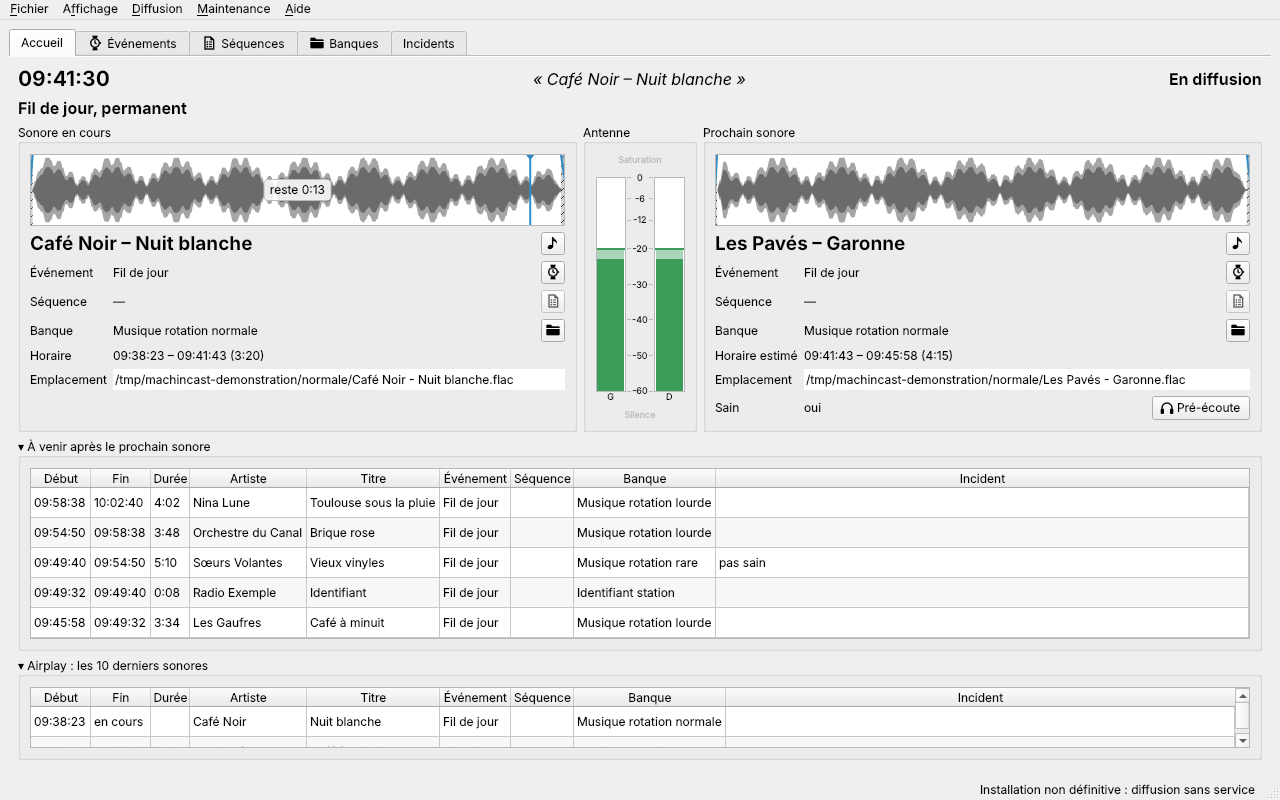
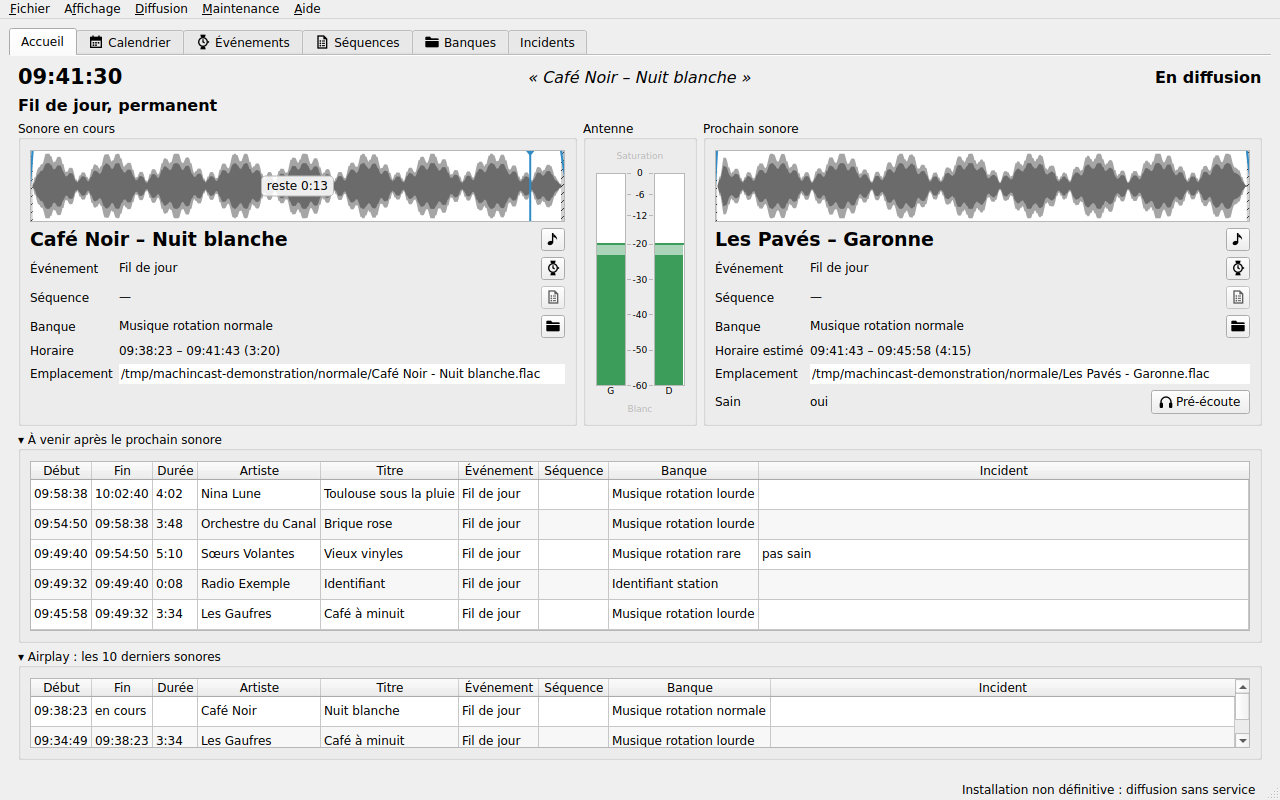
Version 0.9.0, première version publiée (#208, #41)
- pyproject.toml : 0.9.0.
- RELEASE.md : les fonctionnalités de la première version, classées par
  sujet, avec leurs tickets, et les remerciements ; ni design, ni code, ni
  documentation, comme demandé pour la première release.
- Les nouveautés de l'interface, pour l'équipe de l'antenne, montrées au
  premier lancement et dans Aide → Version.
- README.md : la version, sa date, ses notes et son archive.
- Le guide de l'antenne relu : ce qui manque encore est à jour ; ses
  captures refaites par Machin dev-captures.
- L'archive .tar.gz d'une release : INSTALL.md dit comment l'installer, et
  un scénario vérifie qu'elle contient de quoi installer MachinCast, sous
  machincast-<version>/. Les tableaux de ce qui manque ne la citent plus,
  ni le raccourci de bureau, livré.

Fixes #208
Fixes #41

Claude-Session: https://claude.ai/code/session_01KaPegkCQoT3k3oMgjXGsiv

diff --git a/tests/test_documentation.py b/tests/test_documentation.py
@@ -4,10 +4,11 @@ import re
 import shlex
 import subprocess
 import sys
+import tarfile
 import tomllib
 from pathlib import Path
 
-from pytest_bdd import scenarios, then
+from pytest_bdd import parsers, scenarios, then, when
 
 from machincast.installation import ACTIONS
 from machincast.interface import version
@@ -225,3 +226,49 @@ def version_du_projet() -> None:
 		return
 	projet = tomllib.loads(texte(RACINE / "pyproject.toml"))["project"]["version"]
 	assert numero(projet) >= numero(sections[0].version), projet
+
+
+# ─── Archive d'une release (https://github.com/dascritch/machincast/issues/41) ───
+
+
+@when("je fais l'archive de la version de pyproject.toml", target_fixture="archive")
+def faire_l_archive(tmp_path: Path) -> dict[str, tarfile.TarInfo]:
+	numero_du_projet = tomllib.loads(texte(RACINE / "pyproject.toml"))["project"]["version"]
+	chemin = tmp_path / f"machincast-{numero_du_projet}.tar.gz"
+	subprocess.run(
+		[
+			"git",
+			"-C",
+			str(RACINE),
+			"archive",
+			"--format=tar.gz",
+			f"--prefix=machincast-{numero_du_projet}/",
+			f"--output={chemin}",
+			"HEAD",
+		],
+		check=True,
+	)
+	with tarfile.open(chemin) as archive:
+		return {membre.name: membre for membre in archive.getmembers()}
+
+
+def projet() -> str:
+	return str(tomllib.loads(texte(RACINE / "pyproject.toml"))["project"]["version"])
+
+
+@then(parsers.parse("l'archive a pour répertoire « {repertoire} »"))
+def repertoire_de_l_archive(archive: dict[str, tarfile.TarInfo], repertoire: str) -> None:
+	attendu = repertoire.replace("<version>", projet())
+	assert all((nom == attendu) or (nom.startswith(f"{attendu}/")) for nom in archive), sorted(archive)[:5]
+
+
+@then(parsers.parse("l'archive contient « {nom} », exécutable"))
+def executable(archive: dict[str, tarfile.TarInfo], nom: str) -> None:
+	membre = archive[f"machincast-{projet()}/{nom}"]
+	assert membre.mode & 0o111, oct(membre.mode)
+
+
+@then(parsers.re(r"l'archive contient (?P<noms>«.+»)$"))
+def contient(archive: dict[str, tarfile.TarInfo], noms: str) -> None:
+	manquants = [nom for nom in re.findall(r"« ([^»]+) »", noms) if f"machincast-{projet()}/{nom}" not in archive]
+	assert manquants == [], manquants

diff --git a/RELEASE.md b/RELEASE.md
@@ -1,0 +1,76 @@
+# Versions de MachinCast
+
+Les versions publiées, la plus récente d'abord. Procédure : [doc/developpement/release.md](doc/developpement/release.md).
+
+## 0.9.0 — 2026-10-28
+
+Première version publiée, avant la 1.0 : tout ce que fait MachinCast, fonctionnalité par fonctionnalité.
+
+### Diffusion à l'antenne : Machin lecture
+
+- L'événement actif, selon les priorités et les horaires de la grille ([#12](https://github.com/dascritch/machincast/issues/12)), et le choix d'un sonore dans une banque, séquentielle ou aléatoire ([#13](https://github.com/dascritch/machincast/issues/13)).
+- Le déroulé de la liste de lecture d'un événement, et les transitions d'un événement à l'autre ([#14](https://github.com/dascritch/machincast/issues/14)), par la boucle de diffusion ([#88](https://github.com/dascritch/machincast/issues/88)).
+- Le moteur audio GStreamer, avec crossfades ([#15](https://github.com/dascritch/machincast/issues/15)), et la position des fondus par rapport aux silences d'un sonore ([#234](https://github.com/dascritch/machincast/issues/234)).
+- Les streams, leur chute et leur reprise, et leur événement de secours ([#16](https://github.com/dascritch/machincast/issues/16)).
+- L'airplay et le log ([#17](https://github.com/dascritch/machincast/issues/17)), avec les débuts et fins d'événements et de séquences ([#153](https://github.com/dascritch/machincast/issues/153)).
+- L'expiration automatique des sonores ([#18](https://github.com/dascritch/machincast/issues/18)).
+- Le masquage des métadonnées, et les sorties : airplay en CSV, playlist `.pls` et page HTML publique ([#19](https://github.com/dascritch/machincast/issues/19)).
+- La socket d'état, que suit l'interface ([#20](https://github.com/dascritch/machincast/issues/20)).
+- La simulation d'une période de diffusion ([#21](https://github.com/dascritch/machincast/issues/21)).
+- La banque « ne pas répéter » ([#63](https://github.com/dascritch/machincast/issues/63)), et les séquences, suites de sonores et de banques réutilisables ([#99](https://github.com/dascritch/machincast/issues/99)).
+- La playlist immédiate : le prochain sonore et ceux qui suivent, réservés à l'avance ([#228](https://github.com/dascritch/machincast/issues/228)).
+- Un sonore joué sans ses silences au début et à la fin ([#146](https://github.com/dascritch/machincast/issues/146)).
+- L'analyse au dernier moment d'un sonore jamais vérifié en entier ([#181](https://github.com/dascritch/machincast/issues/181)).
+- Le blanc dans un sonore, noté, et qui peut faire passer au secours ([#122](https://github.com/dascritch/machincast/issues/122)).
+- Le nom de MachinCast dans le réglage du son du bureau, sous PipeWire et PulseAudio ([#296](https://github.com/dascritch/machincast/issues/296)).
+
+### Programmation et antenne, depuis l'interface
+
+- L'écran d'accueil : sonore en cours, prochain sonore, airplay ([#23](https://github.com/dascritch/machincast/issues/23), [#144](https://github.com/dascritch/machincast/issues/144)), avec les frises du sonore en cours et du suivant ([#230](https://github.com/dascritch/machincast/issues/230)), les sonores à venir, et un onglet Airplay réglable et exportable ([#244](https://github.com/dascritch/machincast/issues/244)).
+- Le VU-mètre de l'antenne, avec ses voyants « Saturation » et « Blanc » ([#24](https://github.com/dascritch/machincast/issues/24), [#191](https://github.com/dascritch/machincast/issues/191)).
+- Le pilotage du service de diffusion ([#25](https://github.com/dascritch/machincast/issues/25)).
+- L'interruption de l'antenne : sauter le sonore, la séquence ou l'événement ([#104](https://github.com/dascritch/machincast/issues/104)), et avancer l'événement suivant ([#257](https://github.com/dascritch/machincast/issues/257)).
+- Le calendrier de la grille ([#36](https://github.com/dascritch/machincast/issues/36)), à la semaine ([#118](https://github.com/dascritch/machincast/issues/118)), aux couleurs des types d'événements ([#293](https://github.com/dascritch/machincast/issues/293)), en onglet permanent ([#307](https://github.com/dascritch/machincast/issues/307)).
+- Sauter une session d'un événement récurrent, et la rétablir ([#273](https://github.com/dascritch/machincast/issues/273), [#295](https://github.com/dascritch/machincast/issues/295)).
+- Une modification de la grille vaut aussitôt à l'antenne ([#266](https://github.com/dascritch/machincast/issues/266)).
+- La garantie d'un fil musical ([#39](https://github.com/dascritch/machincast/issues/39)), et les suggestions au lancement ([#119](https://github.com/dascritch/machincast/issues/119), [#231](https://github.com/dascritch/machincast/issues/231)).
+- L'écran des incidents ([#35](https://github.com/dascritch/machincast/issues/35)) et l'écran de simulation ([#37](https://github.com/dascritch/machincast/issues/37)).
+
+### Sonores, banques, séquences, événements et feeds
+
+- Les listes avec recherche ([#26](https://github.com/dascritch/machincast/issues/26)), la sélection multiple ([#114](https://github.com/dascritch/machincast/issues/114)), le tri des durées, des dates et des priorités ([#272](https://github.com/dascritch/machincast/issues/272), [#302](https://github.com/dascritch/machincast/issues/302)), et la recherche globale ([#27](https://github.com/dascritch/machincast/issues/27), [#105](https://github.com/dascritch/machincast/issues/105)).
+- Les fiches d'un sonore ([#28](https://github.com/dascritch/machincast/issues/28), [#125](https://github.com/dascritch/machincast/issues/125)), d'une banque ([#31](https://github.com/dascritch/machincast/issues/31), [#143](https://github.com/dascritch/machincast/issues/143)), d'un événement ([#32](https://github.com/dascritch/machincast/issues/32), [#140](https://github.com/dascritch/machincast/issues/140)) et d'une séquence ([#112](https://github.com/dascritch/machincast/issues/112), [#138](https://github.com/dascritch/machincast/issues/138)), avec leurs erreurs de saisie mises en avant ([#270](https://github.com/dascritch/machincast/issues/270)).
+- Les feeds, adresses de streams réutilisables ([#34](https://github.com/dascritch/machincast/issues/34), [#252](https://github.com/dascritch/machincast/issues/252)).
+- L'ajout de sonores ([#30](https://github.com/dascritch/machincast/issues/30)), et la duplication d'un événement, d'une séquence ou d'une banque ([#130](https://github.com/dascritch/machincast/issues/130)).
+- La suppression avec ses références ([#33](https://github.com/dascritch/machincast/issues/33)), différée et restaurable ([#267](https://github.com/dascritch/machincast/issues/267)) ; un fichier sonore n'est jamais supprimé ([#96](https://github.com/dascritch/machincast/issues/96)).
+- Les durées minimale et maximale des sonores d'une banque ([#147](https://github.com/dascritch/machincast/issues/147), [#210](https://github.com/dascritch/machincast/issues/210)).
+- La pré-écoute sur une sortie distincte ([#29](https://github.com/dascritch/machincast/issues/29), [#116](https://github.com/dascritch/machincast/issues/116)), avec la frise du fichier ([#224](https://github.com/dascritch/machincast/issues/224)), depuis toute ligne de sonore ([#226](https://github.com/dascritch/machincast/issues/226)), et la pré-écoute de l'antenne ([#245](https://github.com/dascritch/machincast/issues/245), [#256](https://github.com/dascritch/machincast/issues/256)).
+- Les textes saisis nettoyés à l'enregistrement ([#108](https://github.com/dascritch/machincast/issues/108)).
+
+### L'interface au quotidien
+
+- Le menu général ([#117](https://github.com/dascritch/machincast/issues/117)) et les préférences : crossfades par défaut, périphériques, seuils ([#145](https://github.com/dascritch/machincast/issues/145)).
+- Les onglets ouverts à la demande ([#180](https://github.com/dascritch/machincast/issues/180)), leurs raccourcis clavier ([#192](https://github.com/dascritch/machincast/issues/192)), et leur rafraîchissement ([#148](https://github.com/dascritch/machincast/issues/148)).
+- Les colonnes des tableaux, ajustées, réordonnables, masquables et retenues ([#207](https://github.com/dascritch/machincast/issues/207)).
+- Les emoji qui soulignent l'intention des actions ([#294](https://github.com/dascritch/machincast/issues/294)).
+- L'icône de l'application, au choix, et le raccourci de bureau ([#62](https://github.com/dascritch/machincast/issues/62), [#111](https://github.com/dascritch/machincast/issues/111), [#213](https://github.com/dascritch/machincast/issues/213)).
+
+### Indexation des sonores
+
+- La vérification d'un fichier par décodage complet, et sa durée ([#7](https://github.com/dascritch/machincast/issues/7)) ; la lecture de ses tags ([#8](https://github.com/dascritch/machincast/issues/8)) ; son type réel ([#121](https://github.com/dascritch/machincast/issues/121)).
+- L'indexation récursive des répertoires de banques ([#9](https://github.com/dascritch/machincast/issues/9)), qui repère les fichiers supprimés, déplacés ou modifiés ([#10](https://github.com/dascritch/machincast/issues/10)), et ajoute ou retire un sonore d'une banque selon sa durée ([#195](https://github.com/dascritch/machincast/issues/195)).
+- Le document d'audit des anomalies, en CSV et HTML ([#11](https://github.com/dascritch/machincast/issues/11)), et le journal de l'indexation ([#120](https://github.com/dascritch/machincast/issues/120)).
+- Les états d'un sonore ([#66](https://github.com/dascritch/machincast/issues/66)), l'indexation rapide et l'audit complet ([#69](https://github.com/dascritch/machincast/issues/69)), optimisé ([#206](https://github.com/dascritch/machincast/issues/206)).
+- L'indexation lancée depuis l'interface ([#38](https://github.com/dascritch/machincast/issues/38)).
+
+### Installation et administration
+
+- Le script d'installation `install.sh` ([#40](https://github.com/dascritch/machincast/issues/40)), qui interrompt les programmes en cours ([#254](https://github.com/dascritch/machincast/issues/254)), et le service de diffusion systemd ([#22](https://github.com/dascritch/machincast/issues/22)).
+- La commande `Machin` : appel des programmes, aide et autocomplétion ([#6](https://github.com/dascritch/machincast/issues/6)), et la configuration `machincast.toml` ([#2](https://github.com/dascritch/machincast/issues/2), [#76](https://github.com/dascritch/machincast/issues/76)).
+- La base PostgreSQL, et un rôle par programme ([#3](https://github.com/dascritch/machincast/issues/3), [#4](https://github.com/dascritch/machincast/issues/4)).
+- La maintenance de la base : sauvegarde, schéma, optimisation ([#127](https://github.com/dascritch/machincast/issues/127)), et le désherbage de ce qui dépasse la durée de péremption ([#268](https://github.com/dascritch/machincast/issues/268), [#269](https://github.com/dascritch/machincast/issues/269)).
+- Les informations de chaque version publiée : nouveautés au lancement, version, guide de la release ([#208](https://github.com/dascritch/machincast/issues/208)), et son archive `.tar.gz` ([#41](https://github.com/dascritch/machincast/issues/41)).
+
+### Merci
+
+À Xavier Mouton-Dubosc ([dascritch](https://github.com/dascritch)), animateur de [Radio &lt;FMR&gt;](https://radio-fmr.net), qui a demandé chacune de ces fonctionnalités, signalé chaque problème et relu chaque changement.

diff --git a/INSTALL.md b/INSTALL.md
@@ -4,7 +4,7 @@ Ce document décrit l'installation de MachinCast sur un poste de diffusion, sa v
 
 Le script `install.sh` fait tout le travail. La section [Installer à la main](#installer-à-la-main) détaille chacune de ses étapes, pour qui veut les faire soi-même ou comprendre ce qu'il fait.
 
-> **État du projet** : MachinCast est en cours de développement. L'indexation vérifie les sonores, et `Machin lecture` diffuse la grille, depuis un terminal ou comme service, et l'interface graphique (`Machin interface`) n'a pas encore tous ses écrans. La section [Ce qui n'existe pas encore](#ce-qui-nexiste-pas-encore) donne le ticket de chaque manque.
+> **État du projet** : MachinCast 0.9.0 est sa première version publiée, avant la 1.0 ([RELEASE.md](RELEASE.md)). L'indexation vérifie les sonores, `Machin lecture` diffuse la grille, depuis un terminal ou comme service, et l'interface graphique (`Machin interface`) la programme et la suit. Ce qui manque encore est dans les [tickets ouverts](https://github.com/dascritch/machincast/issues).
 
 ## Sommaire
 
@@ -21,7 +21,6 @@ Le script `install.sh` fait tout le travail. La section [Installer à la main](#
 - [Installer à la main](#installer-à-la-main)
 - [Désinstaller](#désinstaller)
 - [En cas de problème](#en-cas-de-problème)
-- [Ce qui n'existe pas encore](#ce-qui-nexiste-pas-encore)
 
 ## En bref
 
@@ -74,7 +73,15 @@ git clone https://github.com/dascritch/machincast.git ~/machincast
 cd ~/machincast
 ```
 
-Les archives `.tar.gz` publiées en releases sur GitHub ne sont pas encore disponibles ([#41](https://github.com/dascritch/machincast/issues/41)). Une fois publiées, elles s'utiliseront de la même façon : décompresser l'archive dans le répertoire choisi, puis lancer `./install.sh` depuis ce répertoire.
+Chaque version publiée a aussi son archive, `machincast-<version>.tar.gz`, dans les [releases du dépôt](https://github.com/dascritch/machincast/releases) ([#41](https://github.com/dascritch/machincast/issues/41)). Elle s'utilise de la même façon : la décompresser dans le répertoire choisi, puis lancer `./install.sh` depuis ce répertoire. Ses notes sont dans [RELEASE.md](RELEASE.md).
+
+```bash
+tar -xzf machincast-0.9.0.tar.gz -C ~
+mv ~/machincast-0.9.0 ~/machincast
+cd ~/machincast
+```
+
+Hors d'un dépôt git, **Aide → Version** donne la version et sa date de publication ; une mise à jour se fait alors en décompressant l'archive suivante à la place, `machincast.toml` gardé.
 
 ## Installer avec install.sh
 
@@ -444,9 +451,3 @@ Les noms de bases sont ceux du modèle : reprendre ceux de `base.production` et 
 | `Machin logs` réclame le groupe `adm` ou `systemd-journal`, ou n'affiche que des messages de son propre compte | Le groupe n'est pas encore pris en compte par la session. Si `id -nG "$(id -un)"` cite `systemd-journal` mais pas `id -nG`, l'ajout est fait : redémarrer le poste. Sinon, relancer `install.sh`. |
 
 Les messages d'information s'affichent sur la sortie standard ; les anomalies et les erreurs sur la sortie d'erreur. Chaque ligne commence par son heure, en ISO 8601, avec le décalage horaire du poste, par exemple `2026-10-23T07:55:19+02:00 sortie audio indisponible : …` ([#253](https://github.com/dascritch/machincast/issues/253)) ; le tableau ci-dessus la laisse de côté. Celles de `install.sh` commencent par `install.sh :`.
-
-## Ce qui n'existe pas encore
-
-| Manque | Ticket |
-| --- | --- |
-| Archives `.tar.gz` publiées en releases | [#41](https://github.com/dascritch/machincast/issues/41) |

diff --git a/src/machincast/interface/nouveautes.md b/src/machincast/interface/nouveautes.md
@@ -5,3 +5,14 @@ version, et dans Aide → Version. Une section par version, la plus récente d'a
 la même que dans RELEASE.md. Ce qui précède la première section n'est pas montré. Procédure :
 doc/developpement/release.md.
 -->
+
+## 0.9.0 — 2026-10-28
+
+Bienvenue dans la première version publiée de MachinCast !
+
+- **L'antenne tourne seule** : fil musical, émissions, spéciaux et streams s'enchaînent selon la grille, avec leurs crossfades. Un stream qui tombe laisse la place à son secours, puis reprend l'antenne.
+- **L'accueil suit l'antenne** : sonore en cours et prochain, avec leur frise, sonores à venir, airplay, et le VU-mètre de la sortie. Un clic droit saute un sonore ou avance l'événement suivant.
+- **La grille se programme ici** : événements, séquences, banques, sonores et feeds, chacun avec sa fiche, et le calendrier de la semaine, où une session se saute pour les vacances.
+- **Pré-écouter** un sonore, ou l'antenne, au casque, sans rien changer à la diffusion.
+- **Les incidents** de la diffusion se lisent dans leur onglet ; un sonore qui ne donne plus de son peut être remplacé aussitôt (Préférences, page Audio).
+- **Aide → Documentation** ouvre le guide de l'antenne de cette version, et **Aide → Version** redonne ces nouveautés.

diff --git a/doc/administration/commandes.md b/doc/administration/commandes.md
@@ -21,7 +21,7 @@ Machin --help                         # aide complète
 
 | Commande | Rôle |
 | --- | --- |
-| `Machin lecture` | Diffusion de l'antenne, normalement lancée comme service ([à venir](README.md#ce-qui-nexiste-pas-encore)). |
+| `Machin lecture` | Diffusion de l'antenne, normalement lancée comme service ([Service de diffusion](../../INSTALL.md#service-de-diffusion)). |
 | `Machin indexation` | Enregistrement des fichiers déposés dans les répertoires des banques, vérification des fichiers sonores et mise à jour de la base. |
 | `Machin interface` | Interface graphique de supervision et de programmation. Pour l'instant, son [écran par défaut](#interface-graphique--machin-interface), les [listes](../utilisateur/listes.md#listes), les fiches d'un [événement](../utilisateur/grille.md#fiche-dun-événement), d'une [séquence](../utilisateur/grille.md#fiche-dune-séquence), d'une [banque](../utilisateur/sonores.md#fiche-dune-banque) et d'un [sonore](../utilisateur/sonores.md#fiche-dun-sonore). |
 | `Machin maintenance-db` | [Maintenance de la base de production](#maintenance-de-la-base--machin-maintenance-db) : sauvegarde, vérification du schéma et des rôles, optimisation. |

diff --git a/doc/utilisateur/README.md b/doc/utilisateur/README.md
@@ -37,11 +37,11 @@ Supprimer ou déplacer un fichier reste une décision humaine, prise hors de Mac
 
 ## Ce qui n'existe pas encore
 
-MachinCast est en cours de développement. Ce qui manque encore pour l'antenne :
+Ce guide est celui de MachinCast 0.9.0, sa première version publiée, avant la 1.0 ; **Aide → Version** en donne les nouveautés. Ce qui manque encore pour l'antenne :
 
 | Manque | Ticket |
 | --- | --- |
 | Prolonger un stream dont le direct déborde | [#47](https://github.com/dascritch/machincast/issues/47) |
-| Raccourci de bureau et icône de l'interface | [#62](https://github.com/dascritch/machincast/issues/62) |
+| Écran d'analyse de la sortie audio, « Moniteur de la sortie… » du menu Maintenance | [#85](https://github.com/dascritch/machincast/issues/85) |
 
 Une idée, un problème ? **Aide → Signaler un problème…** ouvre les tickets de MachinCast.

diff --git a/README.md b/README.md
@@ -1,5 +1,7 @@
 # MachinCast
 
+**Version 0.9.0**, publiée le 2026-10-28, première version publiée, avant la 1.0 : [ce qu'elle apporte](RELEASE.md), et [son archive](https://github.com/dascritch/machincast/releases/tag/v0.9.0).
+
 Système automatisé de diffusion sonore pour continuité d'antenne radio, sous Linux : il fournit un fil antenne en dehors des émissions en direct, à partir de banques de sonores, de *feeds* externes et d'événements horaires. Le service a des tolérance de sources, des scénarios de secours et sépare les services métiers.
 
 - **Équipe de l'antenne** : le [guide de l'antenne](doc/utilisateur/README.md), pour programmer et suivre l'antenne depuis l'interface graphique

diff --git a/doc/administration/README.md b/doc/administration/README.md
@@ -16,6 +16,4 @@ Ce guide s'adresse à l'administrateur du poste de diffusion : il décrit les pr
 
 | Manque | Ticket |
 | --- | --- |
-| Archives `.tar.gz` publiées en releases | [#41](https://github.com/dascritch/machincast/issues/41) |
-| Raccourci de bureau et icône de l'interface | [#62](https://github.com/dascritch/machincast/issues/62) |
 | Prolonger un stream dont le direct déborde | [#47](https://github.com/dascritch/machincast/issues/47) |
